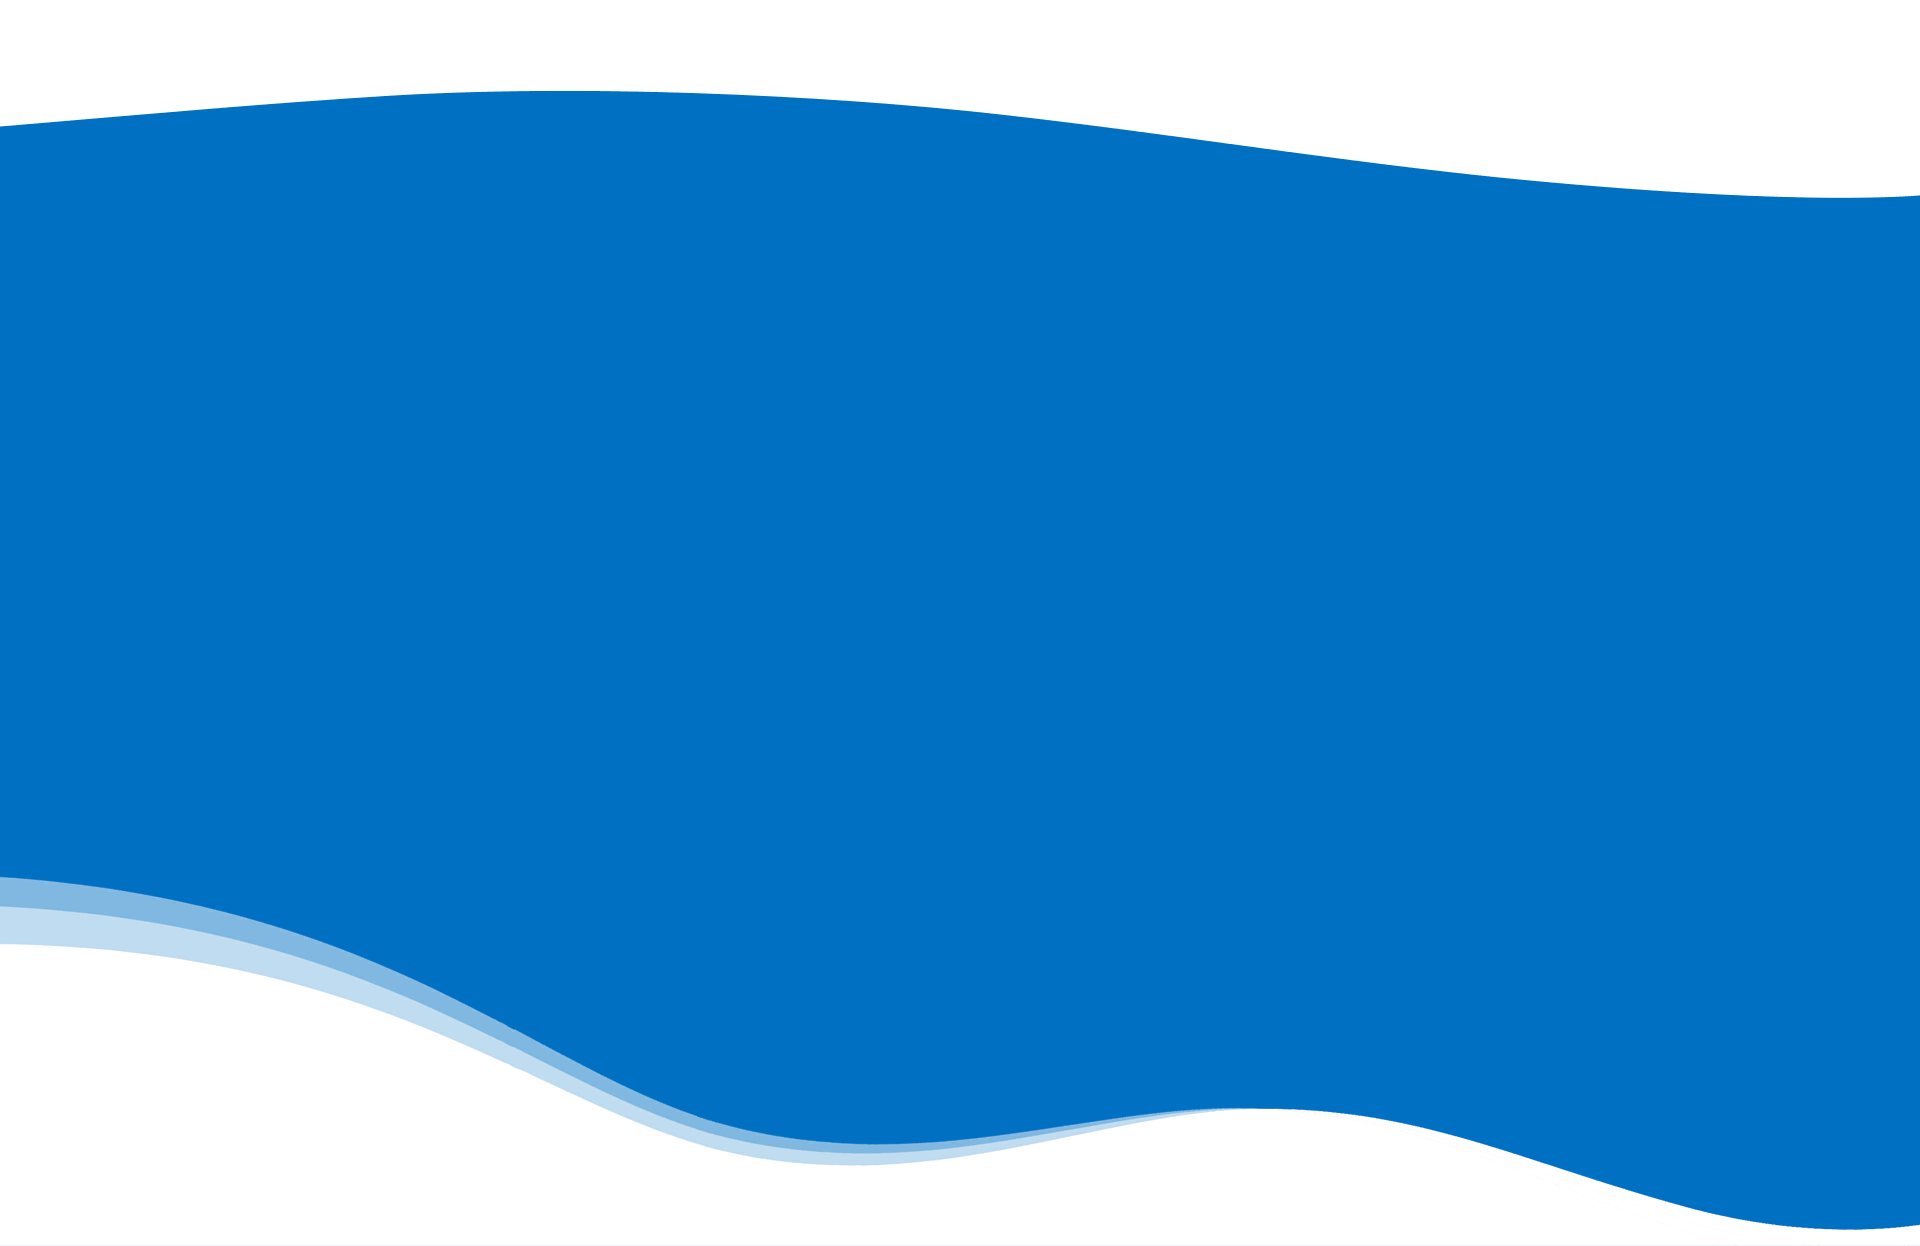
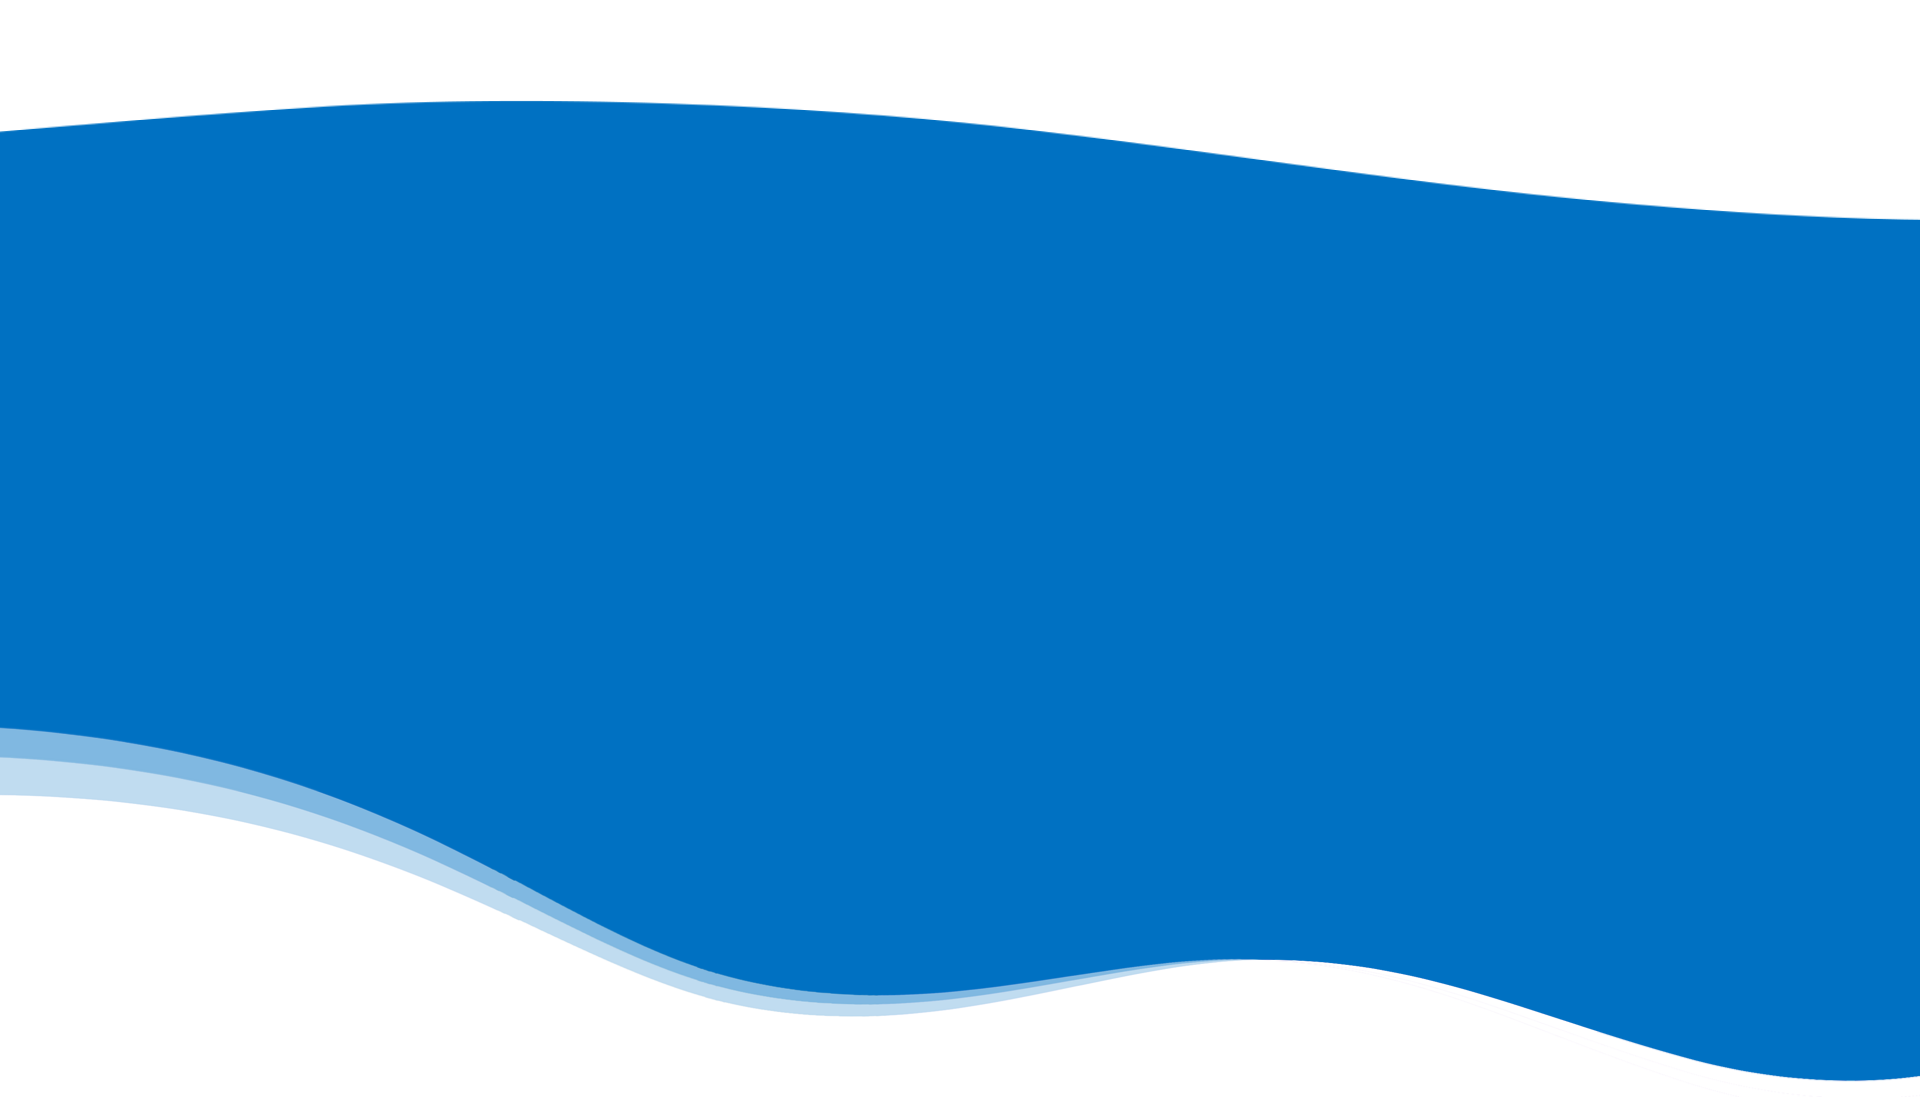
изменения в главной

diff --git a/samotoi/autorize/static/autorize/css/index.css b/samotoi/autorize/static/autorize/css/index.css
@@ -1,5 +1,5 @@
 body {
-    height: 7650px;
+    height: 7000px;
   }
 
 /* Шапка */
@@ -90,7 +90,7 @@ h3.headerLeft{
 
 /* Вторая страница*/
 .main2{
-  height: 1220px;
+  height: 1100px;
   background-image: url("../fon/backg1.png");
   background-position: 26px 0px 0px 0px;
 }
@@ -98,7 +98,7 @@ h3.headerLeft{
 .page2{
   display: flex;
   justify-content: space-between;
-  padding: 334px 328px 0px 328px;
+  padding: 298px 328px 0px 328px;
   align-items: center;
   }
 
@@ -123,7 +123,7 @@ h3.headerLeft{
 /*Третья страница*/
 
 .page3{
-  margin: 200px 211px 0px 211px;
+  margin: 110px 211px 0px 211px;
 }
 
 .page3 h1{
@@ -191,16 +191,16 @@ h3.headerLeft{
 /* Четвертая страница*/
 
 .main4{
-  height: 1220px;
+  height: 1100px;
   background-image: url("../fon/backg2.png");
-  margin-top: 300px;
+  margin-top: 170px;
 }
 
 .page4{
     display: flex;
     justify-content: space-between;
     align-items: center;
-    padding: 409px 350px 0px 328px;
+    padding: 320px 350px 0px 328px;
   }
 
   .page4 h1{
@@ -240,7 +240,7 @@ h3.headerLeft{
 }
 
 .page5{
-    margin: 200px 211px 0px 211px;
+    margin: 100px 211px 0px 211px;
     text-align: center;
 }
 
